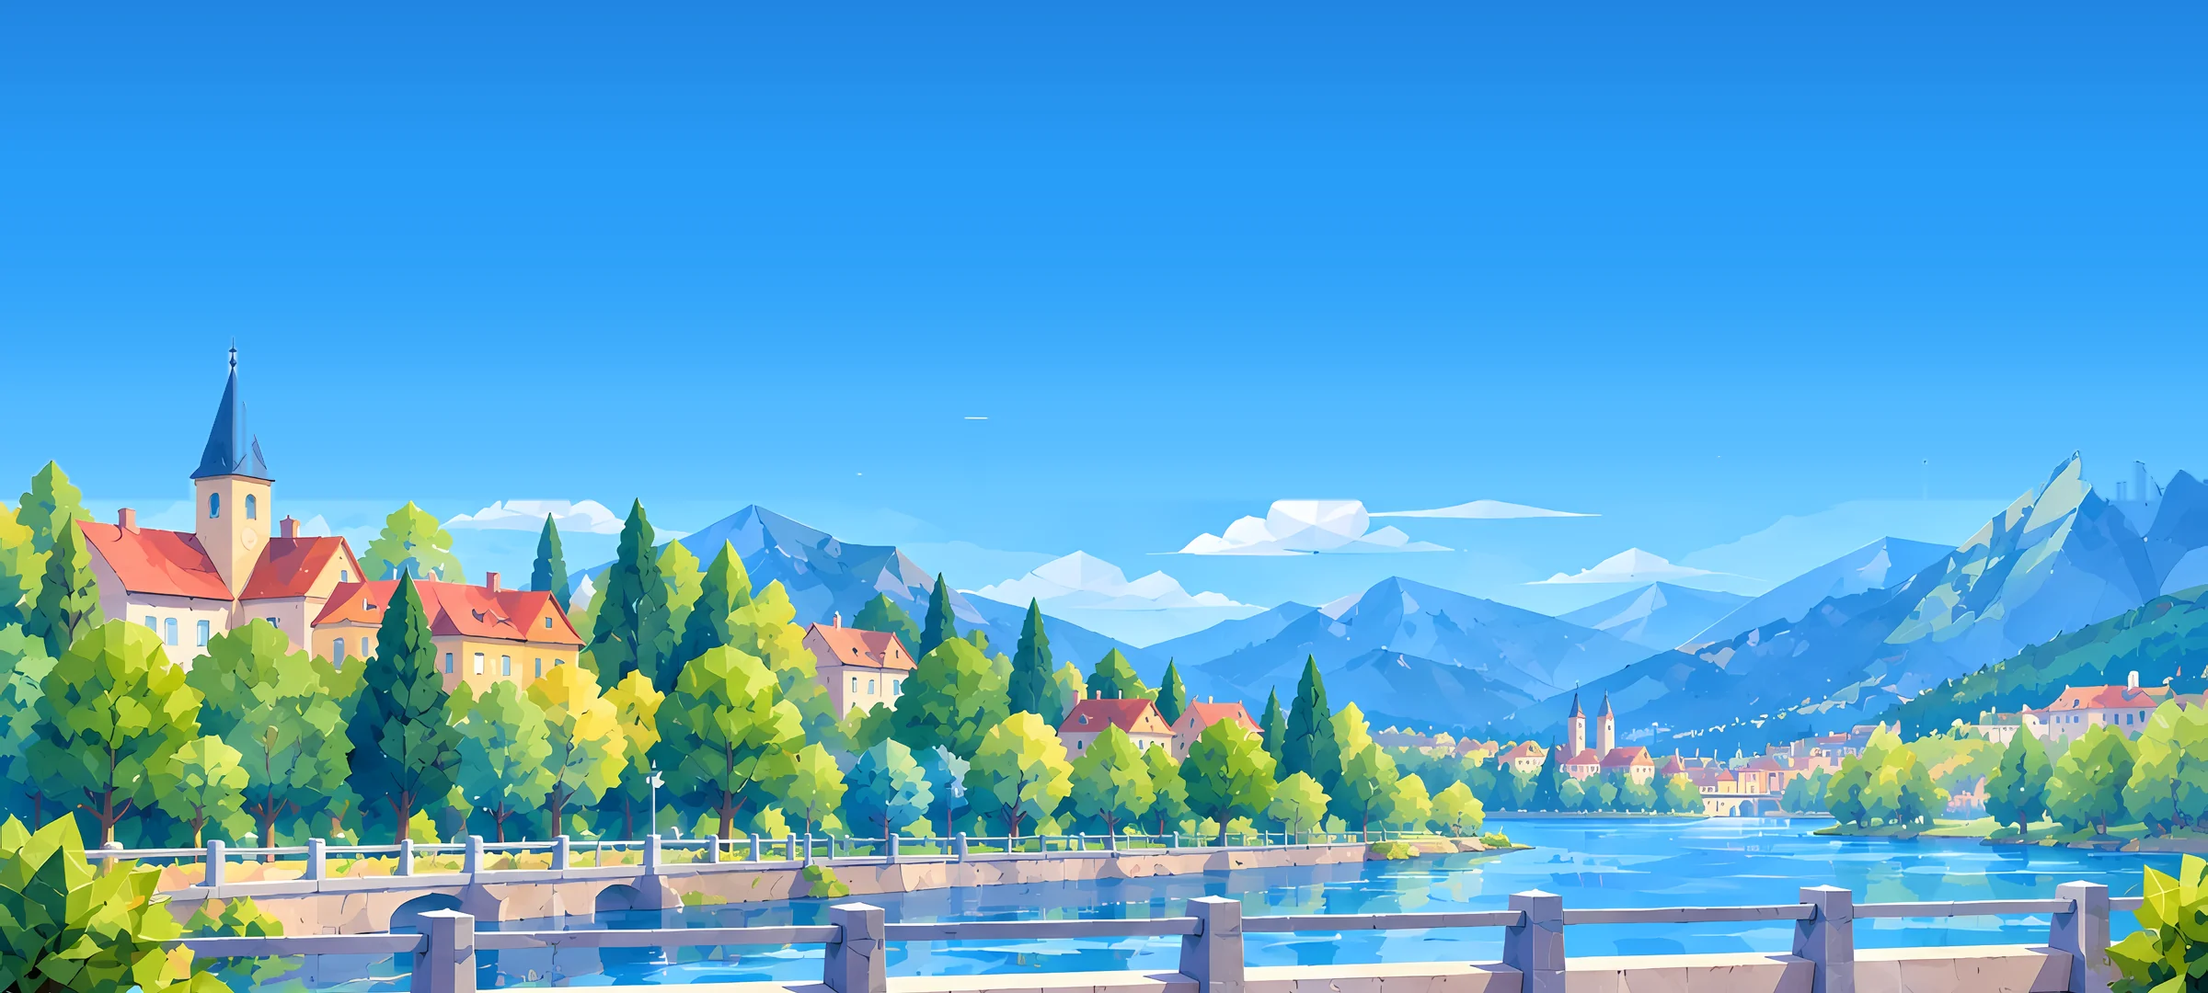
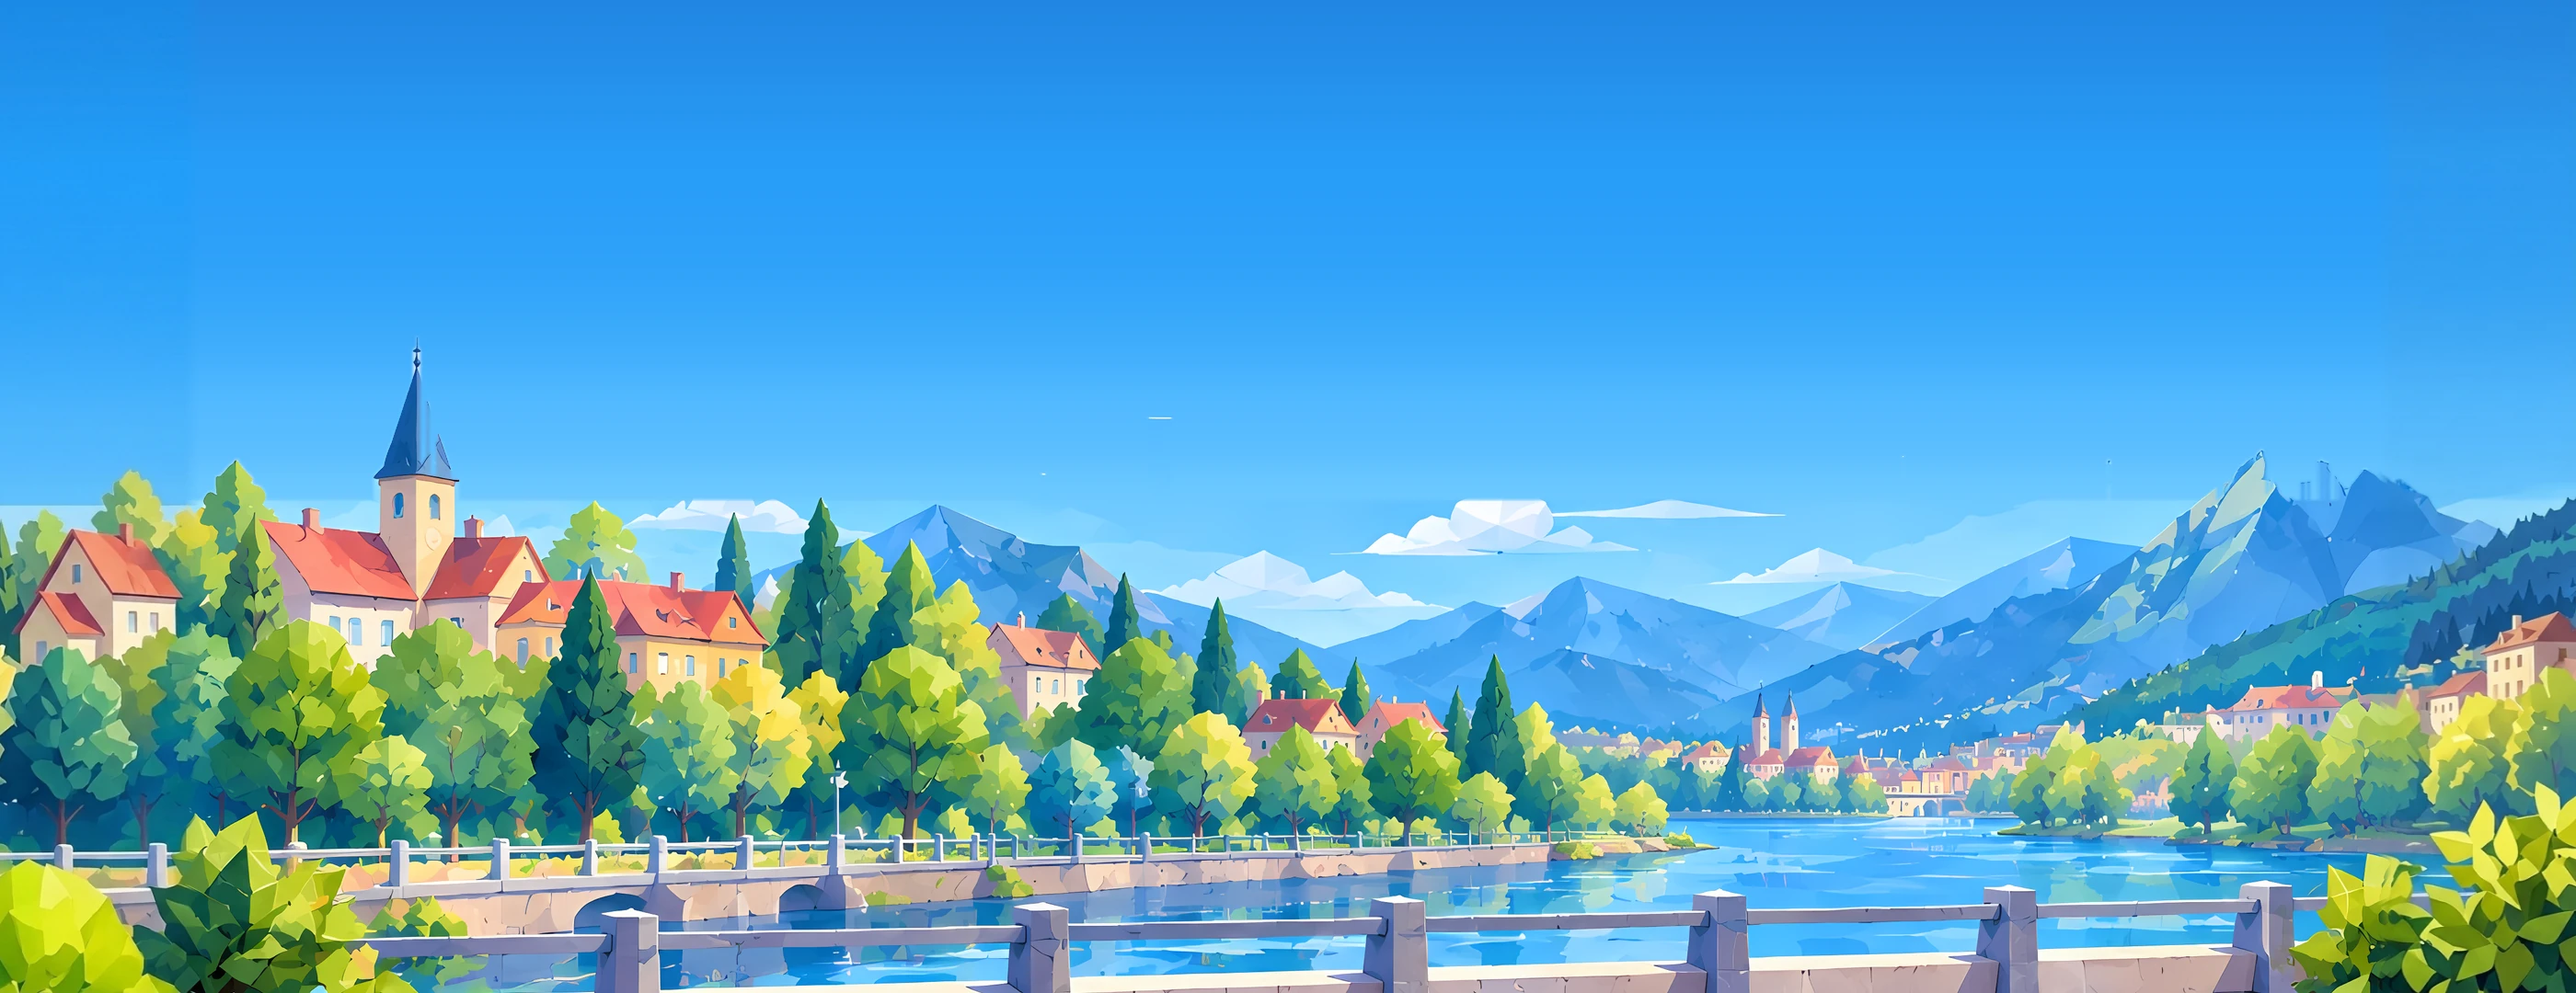
phases 1-2: hall 2600 px equilibre (0 bande noire 20:9/21:9) et rayon 2 origami temporaire

diff --git a/tests/unit/places.test.js b/tests/unit/places.test.js
@@ -55,9 +55,9 @@ describe('lieux : sorties et fondu', () => {
     // À z = 60 (échelle ~0,93), le 1er pixel touche vers x ≈ 54 ; à x = 75 il ne déclenche PAS encore.
     expect(edgeTouched(outLeft, 75, rayon.size[0], 0.93)).toBe(false);
     expect(edgeTouched(outLeft, 52, rayon.size[0], 0.93)).toBe(true);
-    // Côté droit (accueil 2160 px, échelle 0,95) : ne déclenche pas à 2085, déclenche dès que le 1er pixel touche (~2105).
-    expect(edgeTouched(outRight, 2085, accueil.size[0], 0.95)).toBe(false);
-    expect(edgeTouched(outRight, 2106, accueil.size[0], 0.95)).toBe(true);
+    // Côté droit (accueil 2600 px, échelle 0,95) : ne déclenche pas à 2525, déclenche dès que le 1er pixel touche (~2545).
+    expect(edgeTouched(outRight, 2525, accueil.size[0], 0.95)).toBe(false);
+    expect(edgeTouched(outRight, 2546, accueil.size[0], 0.95)).toBe(true);
     // Les bornes calculées : outX sort 100 % hors-champ (plus aucun pixel visible) et inX est collé au bord sans re-déclencher.
     const leftB = edgeBounds('left', rayon.size[0], 0.93);
     expect(leftB.outX).toBeLessThan(-95);
@@ -136,18 +136,18 @@ describe('passages au doigt (séance 67)', () => {
     const aOut = rayon.exits.items.find((e) => e.id === 'vers-rayon2-a');
     expect(exitTarget(rayon.exits.items, 2170, 600)).toEqual([(aOut.zone[0] + aOut.zone[2]) / 2, (aOut.zone[1] + aOut.zone[3]) / 2]); // l'arche centrale, au fond
     expect(exitTarget(rayon.exits.items, 1000, 600)).toBe(null); // l'étagère : comme avant
-    // Hall d'accueil : cliquer dans l'allée entre les deux piliers (à droite des paniers rouges) NE redirige PAS vers la sortie droite.
-    expect(exitTarget(accueil.exits.items, 1750, 320)).toBe(null);
-    expect(exitTarget(accueil.exits.items, 1850, 500)).toBe(null);
-    expect(exitTarget(accueil.exits.items, 2130, 300)).not.toBe(null); // seul le vrai bord droit redirige vers la sortie
+    // Hall d'accueil (2600 px) : cliquer dans l'allée entre les deux piliers NE redirige PAS vers la sortie droite.
+    expect(exitTarget(accueil.exits.items, 1970, 320)).toBe(null);
+    expect(exitTarget(accueil.exits.items, 2070, 500)).toBe(null);
+    expect(exitTarget(accueil.exits.items, 2570, 300)).not.toBe(null); // seul le vrai bord droit redirige vers la sortie
   });
 
   it('hall d’accueil : le héros peut aller au fond entre les deux piliers et derrière la plante + les paniers rouges', () => {
     const m = compileMask(accueil.walkMask);
-    expect(isWalkable(m, 1730, 360)).toBe(true); // au fond entre les deux piliers marron clair
-    expect(isWalkable(m, 1560, 252)).toBe(true); // derrière la plante à gauche des paniers rouges
-    expect(isWalkable(m, 1650, 260)).toBe(true); // derrière les paniers rouges
-    expect(isWalkable(m, 1650, 215)).toBe(false); // pied des paniers rouges : obstacle
+    expect(isWalkable(m, 1950, 360)).toBe(true); // au fond entre les deux piliers marron clair
+    expect(isWalkable(m, 1780, 252)).toBe(true); // derrière la plante à gauche des paniers rouges
+    expect(isWalkable(m, 1870, 260)).toBe(true); // derrière les paniers rouges
+    expect(isWalkable(m, 1870, 215)).toBe(false); // pied des paniers rouges : obstacle
   });
 });
 

diff --git a/tests/e2e/entrees.spec.js b/tests/e2e/entrees.spec.js
@@ -153,7 +153,7 @@ test('clavier : Espace pendant l’écriture d’une bulle termine la phrase ava
   await page.waitForFunction(() => window.paperCart.hero().z > 190);
   await page.keyboard.up('ArrowUp');
   await page.keyboard.down('ArrowLeft');
-  await page.waitForFunction(() => window.paperCart.hero().x < 1160);
+  await page.waitForFunction(() => window.paperCart.hero().x < 1380);
   await page.keyboard.up('ArrowLeft');
   await page.keyboard.press('Space'); // lance le premier slogan de l'hôtesse
   await page.waitForFunction(() => window.paperCart.narrator().visible && window.paperCart.narrator().shown > 0 && window.paperCart.narrator().shown < window.paperCart.narrator().text.length);
@@ -172,12 +172,12 @@ test('fiche « Nouvel objet » au doigt : double toucher à portée ne la referm
   await page.waitForFunction(() => window.paperCart?.state() === 'title');
   await page.evaluate(() => window.paperCart.startGame());
   await page.waitForFunction(() => window.paperCart?.state() === 'play');
-  // Avancer devant les Scanettes jusqu'à être déjà à portée.
-  const pt = await page.evaluate(() => window.paperCart.worldToClient(1370, 206));
+  // Avancer devant les Scanettes jusqu'à être déjà à portée (hall 2600 px : x = 1590).
+  const pt = await page.evaluate(() => window.paperCart.worldToClient(1590, 206));
   await page.touchscreen.tap(pt.x, pt.y);
   await expect.poll(() => page.evaluate(() => window.paperCart.scanState().pickup), { timeout: 8000 }).toBe(0);
   // Double toucher directement sur le présentoir alors que le héros est déjà à portée : la fiche doit rester ouverte !
-  const stand = await page.evaluate(() => window.paperCart.worldToClient(1370, 560));
+  const stand = await page.evaluate(() => window.paperCart.worldToClient(1590, 560));
   await page.touchscreen.tap(stand.x, stand.y);
   await page.waitForTimeout(60);
   await page.touchscreen.tap(stand.x, stand.y);
@@ -228,12 +228,12 @@ test('traversée de bord : au contact du bord gauche, le héros avance seul à 3
   await page.keyboard.down('ArrowLeft');
   await page.waitForFunction(() => window.paperCart.hero().x <= 52, null, { timeout: 5000 });
   await page.keyboard.up('ArrowLeft');
-  // Même touche lâchée, il traverse automatiquement jusqu'à 3/4 hors-champ, change de lieu vers l'accueil,
-  // et avance automatiquement jusqu'à son point d'arrivée collé au bord droit (~2079), sans re-déclencher la sortie.
+  // Même touche lâchée, il traverse automatiquement jusqu'à 100 % hors-champ, change de lieu vers l'accueil,
+  // et avance automatiquement jusqu'à son point d'arrivée collé au bord droit (~2519 dans le hall 2600 px), sans re-déclencher la sortie.
   await page.waitForFunction(() => window.paperCart.place() === 'accueil' && window.paperCart.state() === 'play', null, { timeout: 15000 });
   await page.waitForFunction(() => {
     const h = window.paperCart.hero();
-    return h.x <= 2090 && h.x >= 2040 && !h.moving;
+    return h.x <= 2530 && h.x >= 2480 && !h.moving;
   }, null, { timeout: 5000 });
   await page.waitForTimeout(300);
   expect(await page.evaluate(() => window.paperCart.place())).toBe('accueil');

diff --git a/tests/e2e/a1.spec.js b/tests/e2e/a1.spec.js
@@ -31,10 +31,10 @@ test.afterEach(async () => {
 
 const hero = (page) => page.evaluate(() => window.paperCart.hero());
 
-// Dans le hall : dépasser les portiques par l'avant (ils sont un obstacle).
+// Dans le hall (2600 px) : dépasser les portiques par l'avant (ils sont un obstacle).
 async function pastGates(page) {
   await page.keyboard.down('ArrowRight');
-  await page.waitForFunction(() => window.paperCart.hero().x > 1100);
+  await page.waitForFunction(() => window.paperCart.hero().x > 1320);
   await page.keyboard.up('ArrowRight');
 }
 
@@ -796,7 +796,7 @@ test('A5a : mains vides au début ; à l’accueil, on prend la Scanette puis le
 
 test('A5a au doigt : double toucher sur le présentoir ; sans Scanette, le scan est refusé', async ({ page }, info) => {
   test.skip(info.project.name !== 'telephone', 'téléphone simulé');
-  const p = await page.evaluate(() => window.paperCart.worldToClient(1655, 380)); // pile de paniers (y ≈ 800 dans le hall)
+  const p = await page.evaluate(() => window.paperCart.worldToClient(1875, 380)); // pile de paniers (y ≈ 800 dans le hall 2600 px)
   await page.touchscreen.tap(p.x, p.y);
   await page.touchscreen.tap(p.x, p.y);
   await expect.poll(async () => (await state(page)).gear.panier, { timeout: 8000 }).toBe(true);

diff --git a/tests/unit/data.test.js b/tests/unit/data.test.js
@@ -19,9 +19,7 @@ const ALL_PLACES = [accueil, place, rayon2, salleTest];
 // Règle dimensions (docs/ARCHITECTURE.md §4) : chaque lieu fait au moins 2400 px de large (20:9 sans bande
 // noire), 1080 px de haut visible, et aucune image ne dépasse 4096 px sur un côté (sauf exceptions datées).
 const MIN_PLACE_WIDTH = 2400;
-const WIDTH_EXCEPTIONS = {
-  accueil: 'hall origami V2 (2160 px) — élargissement prévu à ≥ 2500 px (étape 2a / 7a)',
-};
+const WIDTH_EXCEPTIONS = {};
 const MAX_IMAGE_SIDE_EXCEPTIONS = {
   'rayon-avant': 'bande premier plan parallaxe 1,25 (4300×175, redimensionnée au chargement par assets.js)',
   'rayon2-avant': 'bande premier plan rayon 2 provisoire (4300×150, redimensionnée au chargement)',

diff --git a/CREDITS.md b/CREDITS.md
@@ -5,8 +5,9 @@ Toute police, image ou son intégré au jeu est inscrit ici, car le jeu est dest
 | Élément | Fichier(s) | Auteur | Source | Licence |
 |---|---|---|---|---|
 | [TEMP] Décor, objets, produits et personnage provisoires | `public/art/placeholder/` (tous les fichiers .svg, sous-dossiers compris) | Générés pour le projet (Claude, sur demande de l'auteur) | Ce dépôt | Propriété du projet — à remplacer par les dessins de l'auteur |
-| [TEMP] Essai décor parallaxe 3 plans et objets origami de l'accueil (V2/V3 HD) | `public/art/accueil/` (`accueil-dehors.webp`, `accueil-fond.webp`, `accueil-avant.webp`, `portique-origami.webp`, `bouton-panier-origami.webp`, `objet-panier-origami.webp`, `objet-scanette-origami.webp`, `oiseau-1.webp`..`oiseau-6.webp`, `nuage-1.webp`..`nuage-3.webp`) | Auteur (visuels origami mis à l'échelle HD Real-ESRGAN `realesrgan-x4plus-anime`, détourés et montés en calques Krita ; ciel dégagé + nuages origami animés + oiseaux volants/marcheurs derrière les verrières ; portiques horizontaux en `props` triés par profondeur ; stocks conservés dans `_assets_stock/`) | Ce dépôt | Propriété du projet |
+| [TEMP] Essai décor parallaxe 3 plans et objets origami de l'accueil (V3 HD 2600 px) | `public/art/accueil/` (`accueil-dehors.webp`, `accueil-fond.webp`, `accueil-avant-gauche.webp`, `accueil-avant-droite.webp`, `portique-origami.webp`, `bouton-panier-origami.webp`, `objet-panier-origami.webp`, `objet-scanette-origami.webp`, `oiseau-1.webp`..`oiseau-6.webp`, `nuage-1.webp`..`nuage-3.webp`) | Auteur (visuels origami mis à l'échelle HD Real-ESRGAN `realesrgan-x4plus-anime`, élargis de façon équilibrée à `2600×1080` / extérieur `2800×1080`, détourés et montés en calques ; stocks conservés dans `_assets_stock/`) | Ce dépôt | Propriété du projet |
 | [TEMP] Essai décor parallaxe 3 plans origami du Rayon 1 (`rayon-essai`, V2 HD) | `public/art/rayon-essai/` (`rayon-lointain.webp`, `rayon-fond.webp`, `rayon-avant.webp`, `oiseau-marche-1.webp`, `oiseau-marche-2.webp`, `nuage-1.webp`, `nuage-2.webp`) | Auteur (panoramas 4:1 origami du Rayon 1 et du Rayon 2 en arrière-plan mis à l'échelle HD Real-ESRGAN `realesrgan-x4plus-anime`, détourés et montés en calques Krita ; lettrage papier origami ; nuages origami et sprites d'oiseaux marcheurs/volants dérivés de l'accueil V2 ; stock conservé dans `_assets_stock/rayon_essai_v1_origami/`) | Ce dépôt | Propriété du projet |
+| [TEMP] Décor parallaxe 3 plans origami temporaire du Rayon 2 (`rayon-2`) | `public/art/rayon-2/` (`rayon2-lointain.webp`, `rayon2-fond.webp`, `rayon2-avant.webp`) | Auteur (déclinaison temporaire teintée sarcelle dérivée des calques HD du Rayon 1 avec ouverture retour `↓ RAYON 1` ; stock conservé dans `_assets_stock/rayon_2_temp_origami/`) | Ce dépôt | Propriété du projet |
 | [TEMP] Lettrage provisoire des panneaux du Rayon 1 (`Segoe Print Bold`) | Pixellisé dans `public/art/rayon-essai/rayon-fond.webp` | Microsoft (police système Windows) | Windows | ⚠ Licence propriétaire Microsoft — **à remplacer avant commercialisation** par une police libre SIL OFL (ex. *Patrick Hand*, *Kalam*, *Shantell Sans*) ou un lettrage manuscrit |
 | [TEMP] Essai héros origami 8 directions (`heros-test`) | `public/art/heros-test/` (`heros-s-*.webp` dont marche 16 images issue de vidéo Gemini Omni 1.2, `heros-se-*.webp`, `heros-e-*.webp`, `heros-ne-*.webp`, `heros-n-*.webp`, clignements `*-blink.webp`, Scanette provisoire pendant le scan `tenu-scanette.webp` — 41 sprites) | Auteur (visuels origami générés avec Nano Banana 2.1 / Gemini Omni 1.2, détourés, harmonisés et alignés aux pieds avec liseré papier blanc uniforme ; sources conservées dans `_assets_stock/heros_test_v1/`) | Ce dépôt | Propriété du projet |
 | [TEMP] Bruits de pas | `src/audio/audio.js` (synthèse) | Créés pour le projet (Claude, sur demande de l'auteur) | Ce dépôt | Propriété du projet — provisoire |

diff --git a/docs/SUIVI.md b/docs/SUIVI.md
@@ -10,7 +10,7 @@ Les points ✅ sont dans `docs/SUIVI-archive.md` (rien n'est perdu ; déplacés 
 | Demande ou point ouvert | Séance | État | Notes |
 |---|---|---|---|
 | **RAPPEL — Essai PixiJS v8 (avant Prototype B)** | 80 | 🔧 | **Juste avant le Prototype B (combat)** : essai court **PixiJS v8** (plutôt que Phaser 4) sur branche à part (Rayon 1 + héros), mesuré sur l'Oppo Reno 2 avec le même banc d'essai. Décision sur chiffres. *(Réponse auteur 7a.)* |
-| Élargir le décor du hall d'accueil (`2160 → ≥ 2500 px`, zéro bande noire sur 20:9 / 21:9) | 80 | 🔧 | Passe graphique dédiée juste après les correctifs code (3 plans Krita + recalage `accueil.json`, puis retrait de l'exception `accueil` dans `tests/unit/data.test.js`). *(Réponse auteur 2a / 7a.)* |
+| Élargir le décor du hall d'accueil (`2160 → 2600 px`, zéro bande noire sur 20:9 / 21:9) | 81 | ✅ | Extension équilibrée (+220 G / +220 D → `2600×1080`, extérieur `2800×1080`), recalage complet `accueil.json` et retrait de l'exception largeur dans `tests/unit/data.test.js`. |
 | Valider le style de transition puis supprimer les 5 styles non retenus | 81 | ✅ | **Fondu enchaîné pur** validé par l'auteur ; les 5 autres styles (`mist`, `flip`, `double`, `strips`, `wipe`) et leur CSS/DOM supprimés (`transition-origami.webp` archivé dans `_assets_stock/ui_en_reserve/`). |
 | Clignotement à froid du héros au 1er lancement | 80 | 👀 | `decoding = 'sync'` après `decode()` (`assets.js`) + décodage copies `clouds.js`/`birds.js`. À re-vérifier à froid sur PC et Oppo Reno 2. *(Réponse auteur 1a.)* |
 | Remplacer `Segoe Print Bold` (panneaux Rayon 1) avant vente commerciale | 80 | 🔧 | Licence Microsoft : remplacer par une police libre **SIL OFL** (*Patrick Hand*, *Kalam*, *Shantell Sans*) ou lettrage manuel. Noté dans `CREDITS.md`. |
@@ -27,7 +27,7 @@ Les points ✅ sont dans `docs/SUIVI-archive.md` (rien n'est perdu ; déplacés 
 | *Umblättern (kurz)* (`#369960`) | `papier_1_retournement_court_369960.ogg` | 0,18 s | `MiSchy` — https://freesound.org/people/MiSchy/sounds/369960/ | CC0 1.0 | Retournement de carte / menu (non retenu sur le pivot du héros) |
 | *Paper_Flip_04* (`#615334`) | `papier_2_flip_jeu_615334.ogg` | 0,66 s | `Rookster` — https://freesound.org/people/Rookster/sounds/615334/ | CC0 1.0 | Effet UI / ouverture de livre ou panier |
 | *Paper Crumple 2* (`#334199`) | `papier_3_froissement_334199.ogg` | 0,44 s | `WasabiWielder` — https://freesound.org/people/WasabiWielder/sounds/334199/ | CC0 1.0 | Effet papier froissé / coup reçu / carton |
-| Rayon 2 en décor origami HD + « test du gris » sur les produits à scanner | 80 | 🔧 | Le Rayon 2 derrière l'arche origami est encore en SVG gris provisoire ; prévoir la passe décor Rayon 2 et le test du gris (noir & blanc) pour détacher les produits scannables des étagères peintes. |
+| Rayon 2 en décor origami temporaire + « test du gris » sur les produits à scanner | 81 | 👀 | Décor origami temporaire teinté sarcelle dérivé du Rayon 1 (`public/art/rayon-2/`), ouverture retour `↓ RAYON 1`, 6 produits + pile de cartons + rouleau PQ recalés + captures test du gris (N&B). Décor dédié final prévu plus tard. |
 | Personnalité et design définitifs du héros (+ 16 images uniques sur les 5 vues) | 79 | 🔧 | En attente du choix de l'auteur avant de lancer la génération des 5 vues définitives (attention mémoire : 89 images ≈ 116 Mo en DOM → argument supplémentaire pour le POC PixiJS avant B). |
 | Banc d'essai fluidité sur le vrai téléphone (Oppo Reno 2) | 80 | 🔧 | À relancer après cette passe (notamment pour mesurer `mist` vs volet, les 15 calques nuages/oiseaux et l'absence de clignotement). |
 

diff --git a/docs/ARCHITECTURE.md b/docs/ARCHITECTURE.md
@@ -53,7 +53,7 @@
 - Caméra : toute la hauteur toujours visible, un écran plus allongé montre plus de largeur (séance 6, validé séance 7). *Remplace le choix « remplir / tout montrer » du plan initial.*
 - **Dimensions, proportions et résolution des lieux ✅ (séance 80, contrôlées par `tests/unit/data.test.js`)** :
   - hauteur de scène visible fixe : **`1 080 px`** (`size[1]` ou `viewHeight`) ;
-  - largeur minimale obligatoire d'un lieu : **`2 400 px`** (écrans 20:9 comme l'Oppo Reno 2 sans bandes noires), **recommandée ≥ `2 560 px`** (couvre aussi 21:9 + laisse une marge de caméra) ; exception datée en cours sur `accueil` (`2 160 px`, élargissement prévu en étape 2a) ;
+  - largeur minimale obligatoire d'un lieu : **`2 400 px`** (écrans 20:9 comme l'Oppo Reno 2 sans bandes noires), **recommandée ≥ `2 560 px`** (couvre aussi 21:9 + laisse une marge de caméra) ; tous les lieux respectent désormais cette règle (`accueil` élargi à `2 600 px` en séance 81) ;
   - plans parallaxe (`dehors`/`lointain`, `premier-plan`) dimensionnés pour couvrir toute la course caméra sans bord vide ;
   - plafond matériel GPU : **≤ `4 096 px`** sur un côté pour une image unique ; sprites de personnage à cadre et point d'appui aux pieds identiques sur toutes les poses.
 - Images : bitmaps `.webp` utilisés directement lorsqu'ils sont proches de la résolution utile (`assets.js`), SVG et images trop grandes préparés **une fois au chargement**, décodés avant affichage puis repassés en `decoding = 'sync'` (anti-clignotement à froid). Animations décrites dans les données (1 image comme 16).
